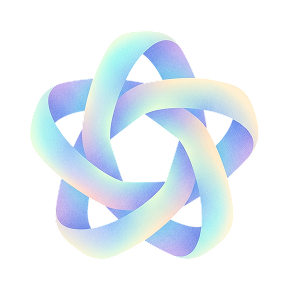
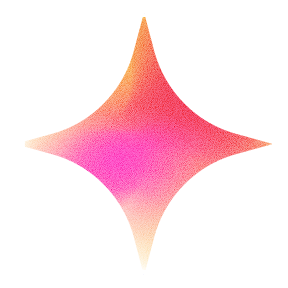
chore: update

diff --git a/index.html b/index.html
@@ -1807,6 +1807,7 @@
       const GAP = 16;
       const STRIDE = CARD_W + GAP;
       const teleporting = React.useRef(false);
+      const paused = React.useRef(false);
       const N = FY_SLIDES.length;
       const renderedSlides = [FY_SLIDES[N - 1], ...FY_SLIDES, FY_SLIDES[0]];
 
@@ -1851,14 +1852,31 @@
           }, 160);
         };
         el.addEventListener('scroll', onScroll, { passive: true });
+        const onDown = () => { paused.current = true; };
+        const onUp = () => { setTimeout(() => { paused.current = false; }, 3000); };
+        el.addEventListener('pointerdown', onDown);
+        el.addEventListener('pointerup', onUp);
         return () => {
           el.removeEventListener('scroll', onScroll);
+          el.removeEventListener('pointerdown', onDown);
+          el.removeEventListener('pointerup', onUp);
           clearTimeout(settleTimer);
         };
       }, [N]);
 
+      /* Auto-advance every 4s — pauses for 3s after any user touch. */
+      React.useEffect(() => {
+        const el = ref.current;
+        if (!el) return;
+        const t = setInterval(() => {
+          if (paused.current || teleporting.current) return;
+          el.scrollBy({ left: STRIDE, behavior: 'smooth' });
+        }, 4000);
+        return () => clearInterval(t);
+      }, []);
+
       return (
-        <div style={{ paddingTop: 16, paddingBottom: 32 }}>
+        <div style={{ paddingTop: 16, paddingBottom: 40 }}>
           <div ref={ref} style={{
             overflowX: 'auto', overflowY: 'visible',
             paddingLeft: 'calc((100% - 280px) / 2)',
@@ -2162,18 +2180,19 @@
       "What's a pot?",
     ];
 
-    /* AI banker A — single-line search bar with rolling questions, AI symbol left,
-       same height as variants C and E. */
+    /* AI banker A — single-line search bar with rolling questions. White-on-white
+       with the same subtle slate stroke + soft drop shadow used on the card
+       aesthetic (matches Bills C avatars / outline cards). */
     const AB_A = () => (
       <PagePad>
         <button className="tap" style={{
           width: '100%', height: 48, padding: '0 16px', boxSizing: 'border-box',
           display: 'flex', alignItems: 'center', gap: 12,
-          background: 'white', border: '1px solid rgba(211,10,215,0.18)', borderRadius: 100,
-          boxShadow: '0 4px 16px rgba(211,10,215,0.08), 0 1px 2px rgba(0,0,0,0.04)',
+          background: '#FFFFFF', border: '1px solid #F2F2F2', borderRadius: 100,
+          boxShadow: '0 2px 8px rgba(0,0,0,0.05)',
           cursor: 'pointer', textAlign: 'left',
         }}>
-          <img src="./assets/ai_icon.png" width={28} height={28} alt="" style={{ display: 'block', flexShrink: 0 }} />
+          <img src="./assets/ai_icon.png" width={25} height={25} alt="" style={{ display: 'block', flexShrink: 0 }} />
           <span style={{
             ...T.bodySm, color: 'rgba(0,0,0,0.5)', flex: 1, minWidth: 0,
           }}>
@@ -2192,7 +2211,7 @@
           display: 'flex', alignItems: 'center', gap: 12,
           cursor: 'pointer', textAlign: 'left',
         }}>
-          <img src="./assets/ai_icon.png" width={28} height={28} alt="" style={{ display: 'block', flexShrink: 0 }} />
+          <img src="./assets/ai_icon.png" width={25} height={25} alt="" style={{ display: 'block', flexShrink: 0 }} />
           <span style={{ ...T.body, color: 'rgba(0,0,0,0.5)', flex: 1 }}>Ask AI banker anything…</span>
           <Chevron color="#D30AD7" />
         </button>
@@ -2220,7 +2239,7 @@
               boxShadow: '0 4px 16px rgba(211,10,215,0.08), 0 1px 2px rgba(0,0,0,0.04)',
               cursor: 'text', textAlign: 'left',
             }}>
-              <img src="./assets/ai_icon.png" width={28} height={28} alt="" style={{ display: 'block', flexShrink: 0 }} />
+              <img src="./assets/ai_icon.png" width={25} height={25} alt="" style={{ display: 'block', flexShrink: 0 }} />
               <span style={{ ...T.bodySm, color: 'rgba(0,0,0,0.5)', flex: 1 }}>Ask anything…</span>
             </button>
           </PagePad>
@@ -2254,7 +2273,7 @@
           background: 'transparent', border: 'none', cursor: 'pointer',
           padding: '8px 0', display: 'flex', alignItems: 'center', gap: 8,
         }}>
-          <img src="./assets/ai_icon.png" width={23} height={23} alt="" style={{ display: 'block' }} />
+          <img src="./assets/ai_icon.png" width={21} height={21} alt="" style={{ display: 'block' }} />
           <span style={{ ...T.btnSm, color: '#D30AD7' }}>Ask AI banker</span>
           <GlyphArrow color="#D30AD7" />
         </button>
@@ -2285,7 +2304,7 @@
             display: 'flex', alignItems: 'center', gap: 12,
             cursor: 'pointer', textAlign: 'left',
           }}>
-            <img src="./assets/ai_icon.png" width={28} height={28} alt="" style={{ display: 'block', flexShrink: 0 }} />
+            <img src="./assets/ai_icon.png" width={25} height={25} alt="" style={{ display: 'block', flexShrink: 0 }} />
             <div style={{
               flex: 1, height: LINE_H, overflow: 'hidden', position: 'relative',
             }}>
@@ -3251,7 +3270,7 @@
       V1: {
         label: 'Exploration',
         headerStyle: 'List',
-        sections: { forYou: 'A', aiBanker: 'E', bills: 'C', rewards: 'G', stats: 'G', more: 'A', footer: 'A' },
+        sections: { forYou: 'A', aiBanker: 'A', bills: 'C', rewards: 'G', stats: 'G', more: 'A', footer: 'A' },
       },
     };
 